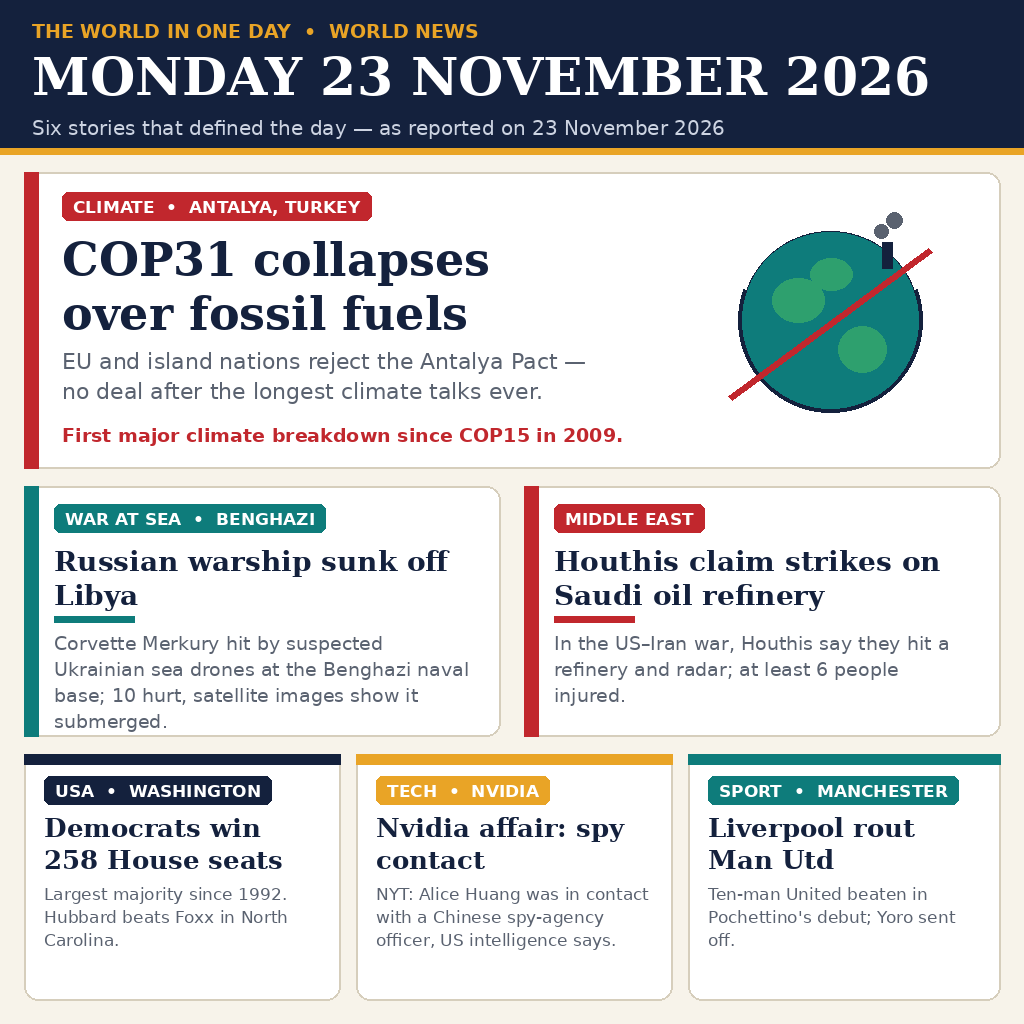
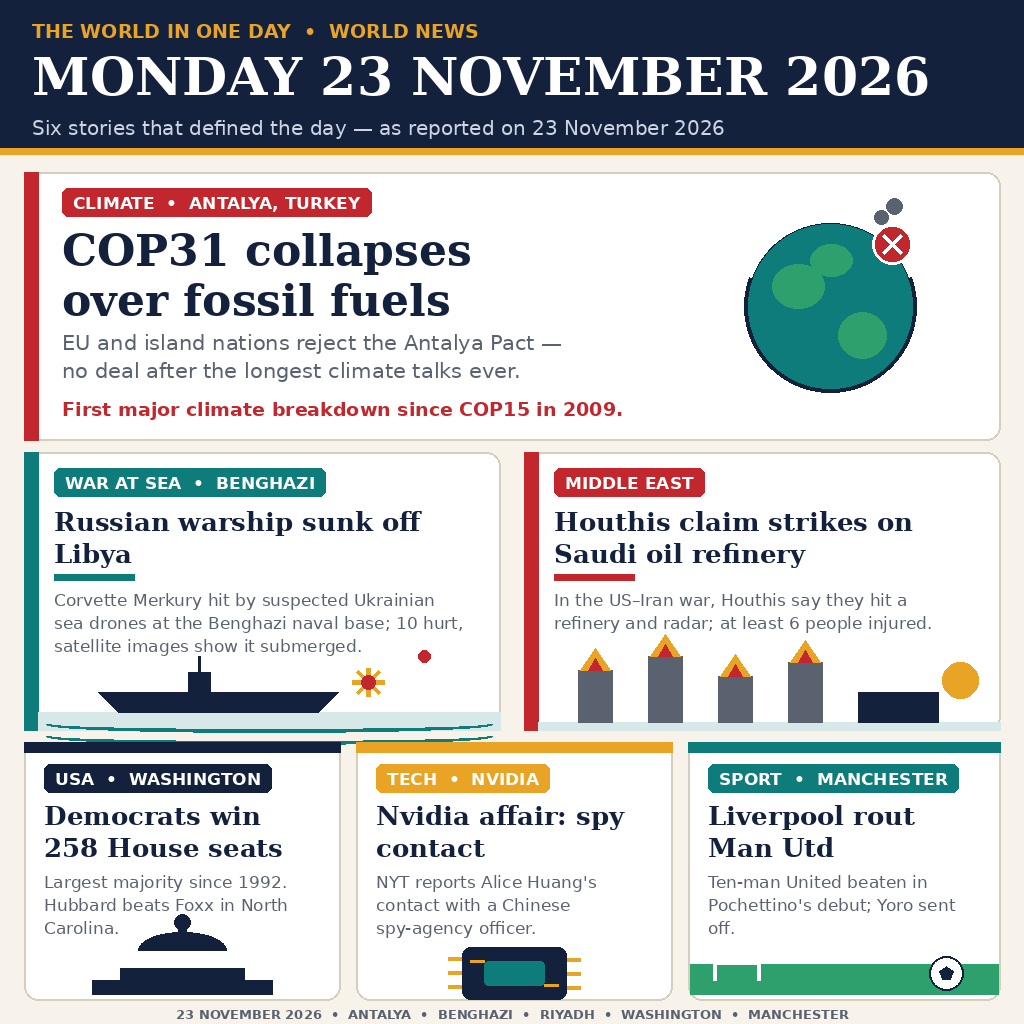
news-image v2: per-story illustrations in every panel, footer places line

Changed region(s): [[0.0, 0.1562, 1.0, 1.0], [0.7188, 0.1875, 0.9062, 0.4062], [0.3438, 0.9688, 0.4062, 1.0]]

diff --git a/draw.py b/draw.py
@@ -100,8 +100,12 @@ def globe(draw, cx, cy, r):
     draw.rectangle([cx + 52, cy - 78, cx + 62, cy - 52], fill=INK)
     draw.ellipse([cx + 44, cy - 96, cx + 58, cy - 82], fill=GREY)
     draw.ellipse([cx + 56, cy - 108, cx + 72, cy - 92], fill=GREY)
-    # red break line across the pact
-    draw.line([cx - r - 8, cy + r - 14, cx + r + 8, cy - r + 22], fill=RED, width=7)
+    # red X badge: the deal is off
+    bx, by, br = cx + 62, cy - 62, 20
+    draw.ellipse([bx - br, by - br, bx + br, by + br], fill=RED,
+                 outline=WHITE, width=3)
+    draw.line([bx - 9, by - 9, bx + 9, by + 9], fill=WHITE, width=4)
+    draw.line([bx - 9, by + 9, bx + 9, by - 9], fill=WHITE, width=4)
 
 
 def ship_icon(draw, x, y, s):
@@ -126,6 +130,83 @@ def flame_icon(draw, x, y, s):
                   (x + 116 * s, y + 52 * s)], fill=RED)
 
 
+def sea_scene(draw, x0, y0, x1, y1):
+    """Warship on waves, hit by a drone: flat shapes, no text."""
+    mid = (y0 + y1) // 2
+    draw.rectangle([x0, mid + 18, x1, y1], fill=(214, 232, 232))
+    for wy in (mid + 22, mid + 34):
+        draw.arc([x0 + 8, wy, x1 - 8, wy + 16], 0, 180, fill=TEAL, width=4)
+    # hull and mast
+    draw.polygon([(x0 + 60, mid - 2), (x0 + 300, mid - 2),
+                  (x0 + 280, mid + 18), (x0 + 80, mid + 18)], fill=INK)
+    draw.rectangle([x0 + 150, mid - 22, x0 + 172, mid - 2], fill=INK)
+    draw.line([x0 + 161, mid - 38, x0 + 161, mid - 22], fill=INK, width=3)
+    # explosion starburst where the drone hit
+    ex, ey = x0 + 330, mid - 12
+    for dx, dy in ((-16, 0), (16, 0), (0, -14), (0, 14),
+                   (-11, -11), (11, -11), (-11, 11), (11, 11)):
+        draw.line([ex, ey, ex + dx, ey + dy], fill=GOLD, width=5)
+    draw.ellipse([ex - 7, ey - 7, ex + 7, ey + 7], fill=RED)
+    # drone dot above
+    draw.ellipse([x0 + 380, mid - 44, x0 + 392, mid - 32], fill=RED)
+
+
+def refinery_scene(draw, x0, y0, x1, y1):
+    """Oil refinery towers with flames under a sun."""
+    base = y1 - 8
+    draw.ellipse([x1 - 58, y0 + 4, x1 - 22, y0 + 40], fill=GOLD)
+    draw.rectangle([x0, base, x1, y1], fill=(214, 232, 232))
+    for tx, th in ((x0 + 40, 52), (x0 + 110, 66), (x0 + 180, 46),
+                   (x0 + 250, 60)):
+        draw.rectangle([tx, base - th, tx + 34, base], fill=GREY)
+        draw.polygon([(tx + 2, base - th), (tx + 17, base - th - 22),
+                      (tx + 32, base - th)], fill=GOLD)
+        draw.polygon([(tx + 10, base - th), (tx + 17, base - th - 12),
+                      (tx + 24, base - th)], fill=RED)
+    draw.rectangle([x0 + 320, base - 30, x0 + 400, base], fill=INK)
+
+
+def capitol_scene(draw, x0, y0, x1, y1):
+    """US Capitol dome silhouette, centred."""
+    cx = (x0 + x1) // 2
+    base = y1 - 4
+    draw.rectangle([cx - 90, base - 14, cx + 90, base], fill=NAVY)
+    draw.rectangle([cx - 62, base - 26, cx + 62, base - 14], fill=NAVY)
+    draw.pieslice([cx - 44, base - 62, cx + 44, base - 26], 180, 360,
+                  fill=NAVY)
+    draw.rectangle([cx - 4, base - 74, cx + 4, base - 62], fill=NAVY)
+    draw.ellipse([cx - 8, base - 80, cx + 8, base - 64], fill=NAVY)
+
+
+def chip_scene(draw, x0, y0, x1, y1):
+    """A computer chip with pins and circuit traces."""
+    cx, cy = (x0 + x1) // 2, (y0 + y1) // 2
+    for i in range(-1, 2):
+        draw.line([cx - 52, cy + i * 14, cx - 66, cy + i * 14],
+                  fill=GOLD, width=4)
+        draw.line([cx + 52, cy + i * 14, cx + 66, cy + i * 14],
+                  fill=GOLD, width=4)
+    draw.rounded_rectangle([cx - 52, cy - 26, cx + 52, cy + 26],
+                           radius=8, fill=INK)
+    draw.rounded_rectangle([cx - 30, cy - 12, cx + 30, cy + 12],
+                           radius=4, fill=TEAL)
+    draw.line([cx - 30, cy - 12, cx - 44, cy - 12], fill=GOLD, width=3)
+    draw.line([cx + 30, cy + 12, cx + 44, cy + 12], fill=GOLD, width=3)
+
+
+def pitch_scene(draw, x0, y0, x1, y1):
+    """A football pitch strip, goal and ball."""
+    draw.rectangle([x0, y0 + 14, x1, y1 - 4], fill=(46, 160, 110))
+    draw.line([x0, y0 + 14, x1, y0 + 14], fill=WHITE, width=3)
+    gx = x0 + 24
+    draw.line([gx, y0 + 14, gx, y1 - 18], fill=WHITE, width=4)
+    draw.line([gx + 44, y0 + 14, gx + 44, y1 - 18], fill=WHITE, width=4)
+    draw.line([gx, y0 + 14, gx + 44, y0 + 14], fill=WHITE, width=4)
+    bx, by, br = x1 - 52, (y0 + y1) // 2, 17
+    draw.ellipse([bx - br, by - br, bx + br, by + br], fill=WHITE,
+                 outline=INK, width=2)
+    draw.polygon([(bx, by - 7), (bx + 7, by - 2), (bx + 4, by + 6),
+                  (bx - 4, by + 6), (bx - 7, by - 2)], fill=INK)
 def main():
     img = Image.new("RGB", (W, H), PAPER)
     d = ImageDraw.Draw(img)
@@ -142,52 +223,53 @@ def main():
            font=font(SANS, 20), fill=(205, 212, 226))
 
     # ---- lead story: COP31 ---------------------------------------
-    d.rounded_rectangle([24, 172, 1000, 468], radius=14, fill=CARD,
+    d.rounded_rectangle([24, 172, 1000, 440], radius=14, fill=CARD,
                         outline=LINE, width=2)
-    d.rectangle([24, 172, 38, 468], fill=RED)
-    tag(d, 62, 192, "CLIMATE  •  ANTALYA, TURKEY", RED)
-    headline = font(SERIF_B, 46)
+    d.rectangle([24, 172, 38, 440], fill=RED)
+    tag(d, 62, 188, "CLIMATE  •  ANTALYA, TURKEY", RED)
+    headline = font(SERIF_B, 44)
     lines = wrap(d, "COP31 collapses\nover fossil fuels", headline, 560)
-    draw_lines(d, 62, 232, lines, headline, INK, 54)
-    sub = font(SANS, 22)
+    draw_lines(d, 62, 224, lines, headline, INK, 50)
+    sub = font(SANS, 21)
     sub_lines = wrap(
         d, "EU and island nations reject the Antalya Pact —\n"
            "no deal after the longest climate talks ever.",
         sub, 560)
-    draw_lines(d, 62, 348, sub_lines, sub, GREY, 30)
-    d.text((62, 424), "First major climate breakdown since COP15 in 2009.",
+    draw_lines(d, 62, 330, sub_lines, sub, GREY, 28)
+    d.text((62, 398), "First major climate breakdown since COP15 in 2009.",
            font=font(SANS_B, 19), fill=RED)
-    globe(d, 830, 320, 92)
+    globe(d, 830, 306, 86)
 
     # ---- second row: two stories ----------------------------------
-    def panel(x0, y0, x1, y1, accent, tag_text, head, sub_text, draw_icon):
+    def panel(x0, y0, x1, y1, accent, tag_text, head, sub_text, scene):
         d.rounded_rectangle([x0, y0, x1, y1], radius=14, fill=CARD,
                             outline=LINE, width=2)
         d.rectangle([x0, y0, x0 + 14, y1], fill=accent)
-        tag(d, x0 + 30, y0 + 18, tag_text, accent)
-        hf = font(SERIF_B, 28)
+        tag(d, x0 + 30, y0 + 16, tag_text, accent)
+        hf = font(SERIF_B, 26)
         hl = wrap(d, head, hf, x1 - x0 - 60)
-        y = draw_lines(d, x0 + 30, y0 + 58, hl, hf, INK, 34)
+        y = draw_lines(d, x0 + 30, y0 + 54, hl, hf, INK, 32)
         d.rectangle([x0 + 30, y + 4, x0 + 110, y + 10], fill=accent)
-        sf = font(SANS, 19)
+        sf = font(SANS, 17)
         sl = wrap(d, sub_text, sf, x1 - x0 - 60)
-        draw_lines(d, x0 + 30, y + 20, sl, sf, GREY, 26)
+        draw_lines(d, x0 + 30, y + 20, sl, sf, GREY, 23)
+        scene(d, x0 + 14, y1 - 72, x1, y1)
 
-    panel(24, 486, 500, 736, TEAL, "WAR AT SEA  •  BENGHAZI",
+    panel(24, 452, 500, 730, TEAL, "WAR AT SEA  •  BENGHAZI",
           "Russian warship sunk off Libya",
           "Corvette Merkury hit by suspected Ukrainian sea drones "
           "at the Benghazi naval base; 10 hurt, satellite images "
           "show it submerged.",
-          None)
-    panel(524, 486, 1000, 736, RED, "MIDDLE EAST",
+          sea_scene)
+    panel(524, 452, 1000, 730, RED, "MIDDLE EAST",
           "Houthis claim strikes on Saudi oil refinery",
           "In the US–Iran war, Houthis say they hit a refinery "
           "and radar; at least 6 people injured.",
-          None)
+          refinery_scene)
 
     # ---- third row: three stories ---------------------------------
-    def small_panel(x0, x1, accent, tag_text, head, sub_text, glyph):
-        y0, y1 = 754, 1000
+    def small_panel(x0, x1, accent, tag_text, head, sub_text, scene):
+        y0, y1 = 742, 1000
         d.rounded_rectangle([x0, y0, x1, y1], radius=14, fill=CARD,
                             outline=LINE, width=2)
         d.rectangle([x0, y0, x1, y0 + 10], fill=accent)
@@ -198,19 +280,24 @@ def main():
         sf = font(SANS, 17)
         sl = wrap(d, sub_text, sf, x1 - x0 - 40)
         draw_lines(d, x0 + 20, y + 8, sl, sf, GREY, 23)
+        scene(d, x0 + 2, y1 - 52, x1 - 2, y1 - 2)
 
     small_panel(24, 340, NAVY, "USA  •  WASHINGTON",
                 "Democrats win 258 House seats",
                 "Largest majority since 1992. Hubbard beats Foxx "
-                "in North Carolina.", "★")
+                "in North Carolina.", capitol_scene)
     small_panel(356, 672, GOLD, "TECH  •  NVIDIA",
                 "Nvidia affair: spy contact",
-                "NYT: Alice Huang was in contact with a Chinese "
-                "spy-agency officer, US intelligence says.", "◉")
+                "NYT reports Alice Huang's contact with a "
+                "Chinese spy-agency officer.", chip_scene)
     small_panel(688, 1000, TEAL, "SPORT  •  MANCHESTER",
                 "Liverpool rout Man Utd",
                 "Ten-man United beaten in Pochettino's debut; "
-                "Yoro sent off.", "⚽")
+                "Yoro sent off.", pitch_scene)
+
+    d.text((512, 1006), "23 NOVEMBER 2026  •  ANTALYA  •  BENGHAZI  •  "
+           "RIYADH  •  WASHINGTON  •  MANCHESTER",
+           font=font(SANS_B, 13), fill=GREY, anchor="ma")
 
     img.save(OUT, format="PNG", optimize=True)
     print(f"wrote {OUT} {img.size} {OUT.stat().st_size} bytes")
